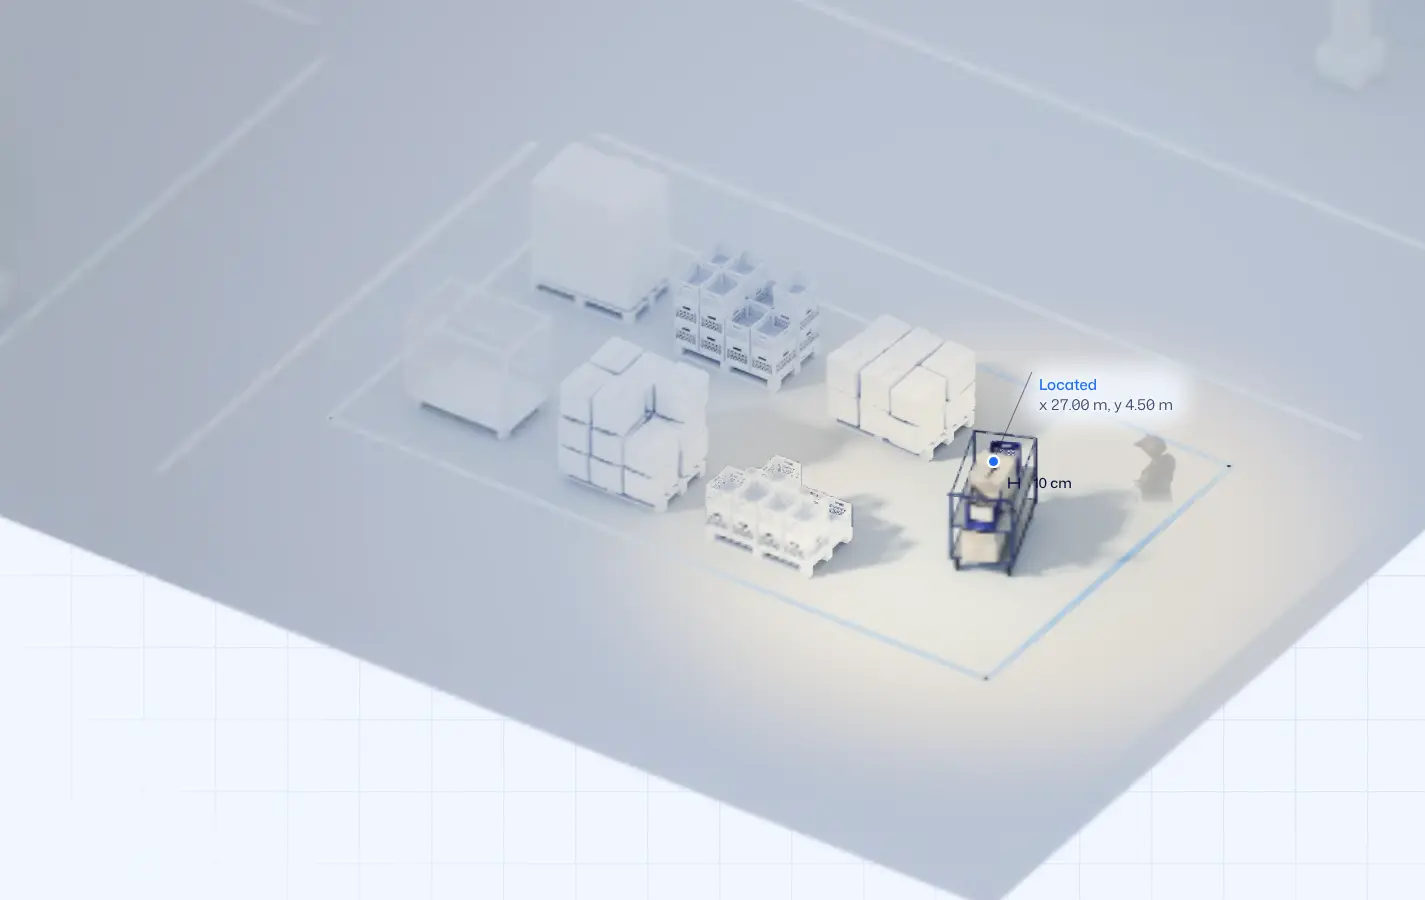
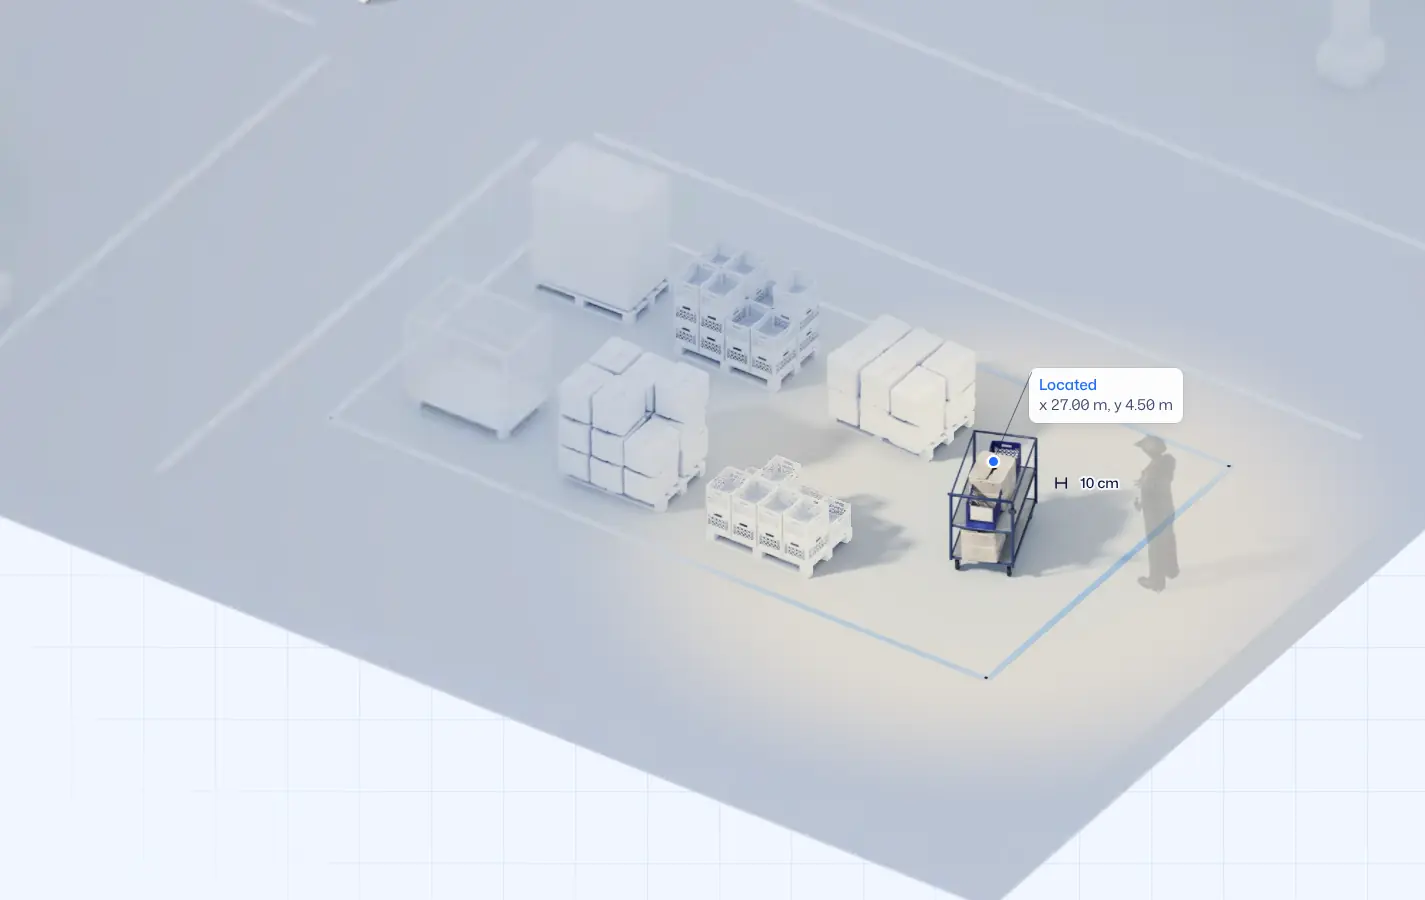
Explainer: last-version audit. Legs restored, sharp plates, clean shadows, crisp labels, supervisor at 2x detail
Claude-Session: https://claude.ai/code/session_01YEydMJrMXd25Uxd8C1TWVL

diff --git a/studio/v1/js/floor.js b/studio/v1/js/floor.js
@@ -388,9 +388,9 @@
     // the turn: the light drops and the plant goes quiet for a moment before Found
     st.dim = i === 2 ? ease(seg(u, .8, 1)) : i === 3 ? 1 - ease(seg(u, .05, .3)) : 0;
     // window light crawling across the floor while the minutes pass
-    st.shaft = i < 3 ? [lerp(-2, 26, (i + u) / 3), .16 * (1 - st.dim)] : [0, 0];
+    st.shaft = [0, 0];
     // focus: the far plant goes soft on the close shots
-    st.dof = i === 3 ? 2.6 * ease(seg(u, .1, .5)) : i === 4 ? 2.6 * (1 - seg(u, 0, .3)) : i === 5 ? 1.8 * ease(seg(u, .3, .6)) : i === 9 ? 1.1 * ease(seg(u, .3, .6)) : 0;
+    st.dof = 0;   // everything stays sharp: the plant is read in full detail
     st.fp = i <= 4 ? M.tag : i === 5 ? [M.hero[0], M.hero[1], .9] : [WALK[0][0], WALK[0][1], .9];
     st.due = i <= 2 ? (i === 0 ? seg(u, .1, .22) : 1) : i === 3 ? 1 - seg(u, 0, .25) : 0;
     st.meas = i === 2 ? ease(seg(u, .08, .42)) : 0; st.measA = i === 2 ? 1 : i === 3 ? 1 - seg(u, 0, .25) : 0;
@@ -421,9 +421,9 @@
   var tripP = el('polyline', 'l-trip'), tripC = [], tripH = el('circle', 'f-head'); tripH.setAttribute('r', 5);
   for (var tc = 1.4; tc < TTOT; tc += 1.4) { var cc = el('circle', 'f-crumb'); cc.setAttribute('r', 2.4); tripC.push({ e: cc, d: tc }); }
   var bar = el('line', 'l-ink'), barA = el('line', 'l-ink'), barB = el('line', 'l-ink'), barT = el('text');
-  barT.setAttribute('style', 'font:500 14px "AmI Text",Arial,sans-serif;fill:#0b1238'); barT.textContent = '10 cm';
+  barT.setAttribute('style', 'font:500 14px "AmI Text",Arial,sans-serif;fill:#0b1238;paint-order:stroke;stroke:#f4f7fc;stroke-width:4px;stroke-linejoin:round'); barT.textContent = '10 cm';
   [measA, measB].forEach(function (c) { c.setAttribute('r', 3.5); }); 
-  var tl = [0, 1, 2].map(function () { var d = document.createElement('div'); d.className = 'flr-dot'; d.style.cssText = 'width:auto;height:auto;margin:0;border-radius:0;background:none;box-shadow:none;font:500 14px/1 "AmI Text",Arial,sans-serif;color:#1f6bff;white-space:nowrap;text-shadow:0 0 6px #f0f6ff,0 0 12px #f0f6ff;font-variant-numeric:tabular-nums'; dotsEl.appendChild(d); return d; });
+  var tl = [0, 1, 2].map(function () { var d = document.createElement('div'); d.className = 'flr-dot'; d.style.cssText = 'width:auto;height:auto;margin:0;border-radius:0;background:none;box-shadow:none;font:500 14px/1 "AmI Text",Arial,sans-serif;color:#1f6bff;white-space:nowrap;paint-order:stroke;-webkit-text-stroke:0;text-shadow:0 0 1px #fff,0 0 2px #fff;font-variant-numeric:tabular-nums'; dotsEl.appendChild(d); return d; });
   var axG = el('g', 'l-axes'), axT = [];
   (function () { for (var k = 0; k <= 10; k++) { var l = document.createElementNS(NS, 'line'); axG.appendChild(l); var t = document.createElementNS(NS, 'text'); axG.appendChild(t); axT.push({ l: l, t: t, x: k <= 6 ? k * 5 : 30, y: k <= 6 ? 0 : (k - 6) * 5, ex: k > 6 }); } })();
   // the three layers: the floor with its tags, the anchors above, the live map on top
@@ -440,7 +440,7 @@
   // ---- WebGL
   var VS1 = 'attribute vec2 a;void main(){gl_Position=vec4(a,0.,1.);}';
   var FS1 = 'precision highp float;uniform vec2 uRes,uA,uF,uPl;uniform float uPpm;uniform sampler2D tWc,tWk,tMc,tMk,tCc,tCk,tXc,tXk,tWi,tMi,tCi,tXi,tLut;uniform vec4 uMid,uClose,uMac,uTx,uSun;uniform vec3 uW;uniform vec2 uO,uIa,uIb,uDr;uniform float uDay,uCool,uDof,uFd;uniform vec2 uSh;uniform sampler2D tD;float gF;' +
-    'vec3 grade(vec3 col,float L,float dn,vec2 s){float lum=dot(col,vec3(.2126,.7152,.0722));float q=uCool*(1.-.6*L);float wv=L*(1.-uCool);col=mix(col,col*col*(3.-2.*col),.22+.18*wv);col=mix(col,vec3(lum)*vec3(.87,.92,1.04),q*.5);col*=1.-.07*q;col+=wv*(vec3(.05,.025,-.035)*(1.-.35*uDay)*smoothstep(.3,1.,lum)+vec3(-.02,-.006,.03)*(1.-smoothstep(0.,.55,lum)));col=mix(col,mix(vec3(.8,.85,.94),vec3(.98,.95,.9),wv),smoothstep(.3,1.,dn)*(.24-.1*wv));float vg=smoothstep(.35,1.15,length((s-uA)/uRes.y));col*=1.-vg*(.1+.08*q);col.b+=vg*.02*q;return clamp(col,0.,1.);}' +
+    'vec3 grade(vec3 col,float L,float dn,vec2 s){float lum=dot(col,vec3(.2126,.7152,.0722));float q=uCool*(1.-.6*L);float wv=L*(1.-uCool);col=mix(col,col*col*(3.-2.*col),.1+.1*wv);col=mix(col,vec3(lum)*vec3(.9,.94,1.03),q*.22);col*=1.-.025*q;col+=wv*(vec3(.05,.025,-.035)*(1.-.35*uDay)*smoothstep(.3,1.,lum)+vec3(-.02,-.006,.03)*(1.-smoothstep(0.,.55,lum)));col=mix(col,mix(vec3(.8,.85,.94),vec3(.98,.95,.9),wv),smoothstep(.3,1.,dn)*(.05-.03*wv));float vg=smoothstep(.45,1.2,length((s-uA)/uRes.y));col*=1.-vg*.03;return clamp(col,0.,1.);}' +
     'float edge(vec2 u){vec2 d=min(u,1.-u);return smoothstep(0.,.07,min(d.x,d.y));}float r1(sampler2D t,vec2 u){float id=texture2D(t,u).r*255.;float v=texture2D(tLut,vec2((id+.5)/256.,.5)).r;return id<.5?max(v,gF):v;}float rv(sampler2D t,vec2 u,float d){vec2 o=vec2(d*.5,d*.5*uRes.x/uRes.y*0.+d*.5);return(r1(t,u+vec2(-o.x,-o.y))+r1(t,u+vec2(o.x,-o.y))+r1(t,u+vec2(-o.x,o.y))+r1(t,u+vec2(o.x,o.y)))*.25;}' +
     'void main(){vec2 s=vec2(gl_FragCoord.x,uRes.y-gl_FragCoord.y);vec2 m=(s-uA)/uPpm+uF;vec2 uv=m/uPl;vec2 wq=uv-uO;gF=1.-smoothstep(uSun.z-uSun.w,uSun.z,distance(vec2(dot(uIa,wq),dot(uIb,wq)),uSun.xy));' +
     'vec4 dd=texture2D(tD,uv);float dn=(dd.r*65280.+dd.g*255.)/65535.;float bb=uDof*smoothstep(.08,2.2,abs(dn-uFd)*(uDr.y-uDr.x));' +
@@ -450,11 +450,11 @@
     'if(uW.z>0.){vec2 u=(uv-uMac.xy)/uMac.zw;if(u.x>0.&&u.x<1.&&u.y>0.&&u.y<1.)c=mix(c,mix(texture2D(tXk,u,bb),texture2D(tXc,u,bb),rv(tXi,u,uTx.w)),edge(u)*uW.z);}' +
     'float L=max(gF,uDay);c.rgb*=mix(vec3(.9,.92,.955),vec3(1.),L);' +
     'vec2 wf=vec2(dot(uIa,wq),dot(uIb,wq));vec2 gp=fract(wf/vec2(7.5,6.6))-.5;float pool=smoothstep(.44,.08,length(gp*vec2(1.,1.25)));' +
-    'if(c.a>.001){vec3 col=c.rgb/c.a;col*=1.+.07*pool*L*(1.-uCool);col+=vec3(.06,.035,0.)*gF*(1.-gF)*4.*(1.-uDay);float pr=dot(wf,vec2(.8,-.6))-uSh.x;float sh=uSh.y*(exp(-pr*pr/1.3)+.7*exp(-(pr-3.4)*(pr-3.4)/1.3));col=col*(1.+sh)+sh*vec3(.035,.025,.0);c.rgb=grade(col,L,dn,s)*c.a;}gl_FragColor=c;}';
+    'if(c.a>.001){vec3 col=c.rgb/c.a;col+=vec3(.06,.035,0.)*gF*(1.-gF)*4.*(1.-uDay);float pr=dot(wf,vec2(.8,-.6))-uSh.x;float sh=uSh.y*(exp(-pr*pr/1.3)+.7*exp(-(pr-3.4)*(pr-3.4)/1.3));col=col*(1.+sh)+sh*vec3(.035,.025,.0);c.rgb=grade(col,L,dn,s)*c.a;}gl_FragColor=c;}';
   var VS2 = 'attribute vec2 a;uniform vec2 uRes,uA,uF;uniform float uPpm;uniform vec4 uR;varying vec2 vU,vM;void main(){vU=a;vM=uR.xy+a*uR.zw;vec2 s=uA+(vM-uF)*uPpm;gl_Position=vec4(s.x/uRes.x*2.-1.,1.-s.y/uRes.y*2.,0.,1.);}';
-  var FS2 = 'precision highp float;varying vec2 vU,vM;uniform sampler2D tAt,tD;uniform vec2 uCa,uCb,uPl,uDr,uRes,uA;uniform float uMix,uAl,uBy,uBd,uTan,uCool,uDay;' +
-    'vec3 grade(vec3 col,float L,float dn,vec2 s){float lum=dot(col,vec3(.2126,.7152,.0722));float q=uCool*(1.-.6*L);float wv=L*(1.-uCool);col=mix(col,col*col*(3.-2.*col),.22+.18*wv);col=mix(col,vec3(lum)*vec3(.87,.92,1.04),q*.5);col*=1.-.07*q;col+=wv*(vec3(.05,.025,-.035)*(1.-.35*uDay)*smoothstep(.3,1.,lum)+vec3(-.02,-.006,.03)*(1.-smoothstep(0.,.55,lum)));col=mix(col,mix(vec3(.8,.85,.94),vec3(.98,.95,.9),wv),smoothstep(.3,1.,dn)*(.24-.1*wv));float vg=smoothstep(.35,1.15,length((s-uA)/uRes.y));col*=1.-vg*(.1+.08*q);col.b+=vg*.02*q;return clamp(col,0.,1.);}' +
-    'void main(){vec2 q=clamp(vU,.004,.996)*.125;vec4 c=mix(texture2D(tAt,uCb+q),texture2D(tAt,uCa+q),uMix);vec4 dd=texture2D(tD,vM/uPl);float D=uDr.x+(dd.r*65280.+dd.g*255.)/65535.*(uDr.y-uDr.x);' +
+  var FS2 = 'precision highp float;varying vec2 vU,vM;uniform sampler2D tAt,tD;uniform vec2 uCa,uCb,uPl,uDr,uRes,uA,uK;uniform float uMix,uAl,uBy,uBd,uTan,uCool,uDay;' +
+    'vec3 grade(vec3 col,float L,float dn,vec2 s){float lum=dot(col,vec3(.2126,.7152,.0722));float q=uCool*(1.-.6*L);float wv=L*(1.-uCool);col=mix(col,col*col*(3.-2.*col),.1+.1*wv);col=mix(col,vec3(lum)*vec3(.9,.94,1.03),q*.22);col*=1.-.025*q;col+=wv*(vec3(.05,.025,-.035)*(1.-.35*uDay)*smoothstep(.3,1.,lum)+vec3(-.02,-.006,.03)*(1.-smoothstep(0.,.55,lum)));col=mix(col,mix(vec3(.8,.85,.94),vec3(.98,.95,.9),wv),smoothstep(.3,1.,dn)*(.05-.03*wv));float vg=smoothstep(.45,1.2,length((s-uA)/uRes.y));col*=1.-vg*.03;return clamp(col,0.,1.);}' +
+    'void main(){vec2 q=clamp(vU,.004,.996)*uK;vec4 c=mix(texture2D(tAt,uCb+q),texture2D(tAt,uCa+q),uMix);vec3 un=c.rgb/max(c.a,.001);float shd=step(.08,un.b-un.r)*step(un.r,.16)*step(c.a,.6);vec2 eu=min(vU,1.-vU);c*=mix(1.,.6*smoothstep(0.,.16,min(eu.x,eu.y)),shd);vec4 dd=texture2D(tD,vM/uPl);float D=uDr.x+(dd.r*65280.+dd.g*255.)/65535.*(uDr.y-uDr.x);' +
     'float dy=uBy-vM.y;float fd=uBd-(dy>0.?dy*uTan:-dy/uTan);if(c.a>.001)c.rgb=grade(c.rgb/c.a,max(uDay,1.-uCool),(D-uDr.x)/(uDr.y-uDr.x),vec2(gl_FragCoord.x,uRes.y-gl_FragCoord.y))*c.a;gl_FragColor=c*uAl*smoothstep(-.75,-.3,D-fd);}';
   function prog(vs, fs) {
     var pr = gl.createProgram();
@@ -588,7 +588,7 @@
     sp.forEach(function (s) {
       var b = Mxy(s.x, s.y, 0); gl.uniform4f(U.uR, b[0] - s.an[0] * s.s, b[1] - s.an[1] * s.s, s.s, s.s);
       gl.activeTexture(gl.TEXTURE0); gl.bindTexture(gl.TEXTURE_2D, (s.t || tex.sprites).t);
-      gl.uniform2f(U.uCa, s.ca[0] / 8, s.ca[1] / 8); gl.uniform2f(U.uCb, s.cb[0] / 8, s.cb[1] / 8); gl.uniform1f(U.uMix, s.mix); gl.uniform1f(U.uAl, s.al); gl.uniform1f(U.uBy, b[1]); gl.uniform1f(U.uBd, s.d);
+      var kr = s.t === tex.poses ? 4 : 8; gl.uniform2f(U.uK, .125, 1 / kr); gl.uniform2f(U.uCa, s.ca[0] / 8, s.ca[1] / kr); gl.uniform2f(U.uCb, s.cb[0] / 8, s.cb[1] / kr); gl.uniform1f(U.uMix, s.mix); gl.uniform1f(U.uAl, s.al); gl.uniform1f(U.uBy, b[1]); gl.uniform1f(U.uBd, s.d);
       gl.drawArrays(gl.TRIANGLE_STRIP, 0, 4);
     });
     // footsteps
@@ -622,7 +622,7 @@
     if (st.amber > .5 && !frame.amb) { frame.amb = true; snd.warn(); hap.tick(); } if (st.amber < .3) frame.amb = false;
     if (st.fix > .5 && !fixed) { fixed = true; snd.fix(); hap.land(); } if (i < 5 || (i === 5 && st.fix < .3)) fixed = false;
     // the 10 cm bar, true to scale, beside the located point
-    var hp = scr(M.hero[0], M.hero[1], 1.02), bw = .1 * cam.ppm, bx = hp[0] + 16, by = hp[1] + 22;
+    var hp = scr(M.hero[0], M.hero[1], 1.02), bw = .1 * cam.ppm, bx = hp[0] + Math.max(16, .62 * cam.ppm), by = hp[1] + 22;
     [bar, barA, barB, barT].forEach(function (e) { show(e, st.fix); });
     if (st.fix > 0) { bar.setAttribute('x1', bx); bar.setAttribute('x2', bx + bw); bar.setAttribute('y1', by); bar.setAttribute('y2', by); barA.setAttribute('x1', bx); barA.setAttribute('x2', bx); barA.setAttribute('y1', by - 5); barA.setAttribute('y2', by + 5); barB.setAttribute('x1', bx + bw); barB.setAttribute('x2', bx + bw); barB.setAttribute('y1', by - 5); barB.setAttribute('y2', by + 5); barT.setAttribute('x', bx + bw + 14); barT.setAttribute('y', by + 5); }
     // --- dots
@@ -657,6 +657,7 @@
       var p0 = scr(t.x, t.y, -.5), p1 = t.ex ? scr(t.x + .45, t.y, -.5) : scr(t.x, t.y - .45, -.5), p2 = t.ex ? scr(t.x + 1.5, t.y, -.5) : scr(t.x, t.y - 1.5, -.5);
       t.l.setAttribute('x1', p0[0]); t.l.setAttribute('y1', p0[1]); t.l.setAttribute('x2', p1[0]); t.l.setAttribute('y2', p1[1]); t.t.setAttribute('x', p2[0]); t.t.setAttribute('y', p2[1] + 4);
       if (!t.t.textContent) t.t.textContent = (t.ex ? t.y : t.x) + (t.x === 30 && t.y === 0 || t.y === 20 ? ' m' : '');
+      var vw = innerWidth, ok = p2[0] > vw * .42 && p2[0] < vw - 44 ? '' : '0'; if (t.o !== ok) { t.o = ok; t.l.style.opacity = t.t.style.opacity = ok; }
     });
     // --- the layers
     var la = Math.max(st.l2, st.l3); show(layG, la > 0 ? 1 : 0);

diff --git a/studio/v1/css/floor.css b/studio/v1/css/floor.css
@@ -40,7 +40,7 @@
 .flr-on.flr-live .flr-gl{opacity:1}
 /* the words stand on the page's own ground: the picture thins out toward them */
 .flr-on .flr-fog{display:block;position:absolute;inset:0;z-index:2;pointer-events:none;
-  background:linear-gradient(90deg,var(--flr-ground) 0,var(--flr-ground) 30%,rgba(240,246,255,.8) 37%,rgba(240,246,255,0) 47%)}
+  background:linear-gradient(90deg,var(--flr-ground) 0,var(--flr-ground) 25%,rgba(240,246,255,.72) 32%,rgba(240,246,255,.22) 38%,rgba(240,246,255,0) 42%)}
 .flr-on .flr-fog::after{content:"";position:absolute;inset:0;opacity:var(--end,0);background:linear-gradient(90deg,var(--flr-ground) 0,rgba(240,246,255,.96) 36%,rgba(240,246,255,.5) 52%,rgba(240,246,255,0) 66%)}
 .flr-on .flr-ov{display:block;position:absolute;inset:0;width:100%;height:100%;z-index:1;pointer-events:none;overflow:visible}
 .flr-on .flr-dots{display:block;position:absolute;inset:0;z-index:1;pointer-events:none}
@@ -84,7 +84,7 @@
 .flr-on .w.k+.w.k::after{left:-.3em}
 .flr-on .w.k-amber::after{background:var(--flr-amber)}
 .flr-on .w.k-ink::after{background:var(--flr-ink)}
-.flr-on .flr-lead{display:block;position:absolute;inset:0;width:100%;height:100%;z-index:5;pointer-events:none;overflow:visible}
+.flr-on .flr-lead{display:block;position:absolute;inset:0;width:100%;height:100%;z-index:3;pointer-events:none;overflow:visible}
 .flr-lead path{fill:none;stroke:var(--flr-blue);stroke-width:1;stroke-linejoin:round}
 .flr-lead circle{fill:var(--flr-ground);stroke:var(--flr-blue);stroke-width:1.5}
 .flr-lead path.k-amber{stroke:#c98200}.flr-lead circle.k-amber{stroke:#c98200}
@@ -108,12 +108,12 @@
 .flr-ov .l-axes line{stroke:var(--flr-soft);stroke-width:1;opacity:.7}
 .flr-ov .l-axes text{font:400 11.5px "AmI Text",Arial,sans-serif;fill:var(--flr-soft);text-anchor:middle;font-variant-numeric:tabular-nums}
 .flr-on .flr-count{opacity:0}
-/* notes: a word or two fixed to a thing in the picture. No box, no card: a dot, a hair, the words. */
+/* notes: a word or two fixed to a thing in the picture: a dot, a hair, the words on a crisp paper slip (no blur, no glow). */
 .flr-on .flr-n{display:block;position:absolute;inset:0;z-index:4;margin:0;padding:0}
 .flr-on .flr-n li{position:absolute;left:0;top:0;width:0;height:0;margin:0;opacity:0;transition:opacity .35s;will-change:transform,opacity}
 .flr-on .flr-n li.in{opacity:1;transition:opacity .6s .15s}
-.flr-on .flr-n li>span{position:absolute;white-space:nowrap;text-shadow:0 0 6px var(--flr-ground),0 0 14px var(--flr-ground),0 0 2px #fff}
-.flr-on .flr-n li>span::before{content:"";position:absolute;z-index:-1;inset:-10px -16px;border-radius:26px;background:rgba(240,246,255,.82);filter:blur(10px)}
+.flr-on .flr-n li>span{position:absolute;white-space:nowrap;}
+.flr-on .flr-n li>span::before{content:"";position:absolute;z-index:-1;inset:-7px -10px;border-radius:8px;background:rgba(255,255,255,.94);box-shadow:0 0 0 1px rgba(15,27,45,.07),0 6px 18px -8px rgba(15,27,45,.18)}
 .flr-hair{position:absolute;left:0;top:0;height:1px;background:var(--flr-ink);opacity:.5;transform-origin:0 50%}
 .flr-pin{position:absolute;left:-4.5px;top:-4.5px;width:9px;height:9px;border-radius:50%;background:var(--flr-blue);box-shadow:0 0 0 2.5px rgba(255,255,255,.95)}
 .flr-amber .flr-pin,.flr-n li.flr-due .flr-pin{background:var(--flr-amber)}
@@ -168,14 +168,14 @@
 
 /* the turn: the picture side goes dark for a breath before Found */
 .flr-dim{display:none}
-.flr-on .flr-dim{display:block;position:absolute;inset:0;z-index:3;pointer-events:none;opacity:var(--dim,0);background:linear-gradient(90deg,rgba(6,10,30,0) 27%,rgba(6,10,30,.5) 36%,rgba(6,10,30,.76) 48%)}
+.flr-on .flr-dim{display:block;position:absolute;inset:0;z-index:3;pointer-events:none;opacity:var(--dim,0);background:linear-gradient(90deg,rgba(6,10,30,0) 27%,rgba(6,10,30,.26) 36%,rgba(6,10,30,.38) 48%)}
 /* chapter cards: the title of each chapter, once, like a film */
 .flr-card{display:none}
 .flr-on .flr-card{display:block;position:absolute;left:68.5%;top:50%;z-index:3;pointer-events:none;opacity:0;transform:translate(-50%,-50%);font:600 clamp(56px,8.4vw,132px)/1 "AmI Display","AmI Text",Arial,sans-serif;letter-spacing:-.045em;color:var(--flr-ink);white-space:nowrap}
 .flr-on .flr-card.c1{color:#f4f7ff}
 .flr-on .flr-card.go{animation:flr-card 1.7s cubic-bezier(.2,.7,.2,1) both}
 @keyframes flr-card{0%{opacity:0;transform:translate(-50%,-46%)}22%{opacity:1;transform:translate(-50%,-50%)}62%{opacity:1}100%{opacity:0;transform:translate(-50%,-52%)}}
-@media (max-aspect-ratio:4/5){.flr-on .flr-card{left:50%;top:64%}.flr-on .flr-dim{background:linear-gradient(180deg,rgba(6,10,30,0) 30%,rgba(6,10,30,.74) 54%)}}
+@media (max-aspect-ratio:4/5){.flr-on .flr-card{left:50%;top:64%}.flr-on .flr-dim{background:linear-gradient(180deg,rgba(6,10,30,0) 30%,rgba(6,10,30,.36) 54%)}}
 @media (prefers-reduced-motion:reduce){.flr-on .flr-card.go{animation:none}}
 .flr-shot .flr-card{display:none!important}
 

diff --git a/extras/explainer-floor/blender/pack3.py b/extras/explainer-floor/blender/pack3.py
@@ -7,14 +7,23 @@ B = os.environ.get('BAY', '/home/user/x3d/out/bay4'); OUT = sys.argv[1]
 man = json.load(open(f'{OUT}/floor.json'))
 J = {n: json.load(open(f'{B}/{n}_col.json')) for n in ('wide', 'mid', 'close', 'macro')}
 w = J['wide']; P = w['pts']
-man.update(aspect=w['w'] / w['h'], scale=w['scale'], o=P['o'], x=[P['x'][i] - P['o'][i] for i in (0, 1)], y=[P['y'][i] - P['o'][i] for i in (0, 1)], z=[P['z'][i] - P['o'][i] for i in (0, 1)])
+man.update(cam=w['cam'], view=w['view'], aspect=w['w'] / w['h'], scale=w['scale'], o=P['o'], x=[P['x'][i] - P['o'][i] for i in (0, 1)], y=[P['y'][i] - P['o'][i] for i in (0, 1)], z=[P['z'][i] - P['o'][i] for i in (0, 1)])
 for n in ('mid', 'close', 'macro'):
     q = J[n]['pts']; a, b = 'o', 'a0'
     rs = [(P[b][i] - P[a][i]) / (q[b][i] - q[a][i]) for i in (0, 1)]; r0 = [P[a][i] - q[a][i] * rs[i] for i in (0, 1)]
     man[n] = [round(v, 6) for v in (*r0, *rs)]
 LUTC = np.interp(np.arange(256) / 255., [0, .35, .745, 1], [0, .35, .8, 1])
+from scipy import ndimage
+def heal(a):
+    # Black opaque slivers where rack tops meet the back wall (a render artefact): fill each from its nearest real pixel.
+    m = (a[..., :3].astype(int).sum(-1) < 12) & (a[..., 3] > 250); lab, n = ndimage.label(m)
+    if n: sz = ndimage.sum(m, lab, range(1, n + 1)); m = np.isin(lab, 1 + np.nonzero(sz > 20)[0])
+    dk = a[..., :3].astype(int).sum(-1) < 90
+    for _ in range(4): m = m | (ndimage.binary_dilation(m) & dk)
+    m = ndimage.binary_dilation(m, iterations=2) & (a[..., 3] > 250)
+    _, (iy, ix) = ndimage.distance_transform_edt(m, return_indices=True); a[m] = a[iy[m], ix[m]]; return a
 def lift(im):
-    a = np.asarray(im).copy(); a[..., :3] = np.round(LUTC[a[..., :3]] * 255).astype(np.uint8); return Image.fromarray(a, 'RGBA')
+    a = heal(np.asarray(im).copy()); a[..., :3] = np.round(LUTC[a[..., :3]] * 255).astype(np.uint8); return Image.fromarray(a, 'RGBA')
 SZ = dict(L=4405, P=2506)
 for lay, wd in SZ.items():
     for st in ('col', 'clay'):

diff --git a/extras/explainer-floor/blender/packposes.py b/extras/explainer-floor/blender/packposes.py
@@ -1,11 +1,13 @@
-# Pack the supervisor's held poses into one sheet, laid out like sprites.webp (8 x 8 cells): column = pose, row = heading.
+# Pack the supervisor's held poses into one sheet of 8 x 4 cells (column = pose, row = heading), rendered at 512 px a cell (sprites3.py with CELL=512)
+# so the close shots show the person at full sharpness.
 # usage: python packposes.py <site assets dir>
 import sys, numpy as np
 from PIL import Image
-S = '/home/user/x3d/out/spr3'; OUT = sys.argv[1]; C = 384
+import os
+S = os.environ.get('SPR', '/home/user/x3d/out/spr3x'); OUT = sys.argv[1]; C = 512
 LUTC = np.interp(np.arange(256) / 255., [0, .35, .745, 1], [0, .35, .8, 1])
-for lay, c in (('L', 384), ('P', 192)):
-    sh = Image.new('RGBA', (8 * c, 8 * c))
+for lay, c in (('L', 512), ('P', 256)):
+    sh = Image.new('RGBA', (8 * c, 4 * c))
     for h in range(4):
         for p in range(7):
             a = np.asarray(Image.open(f'{S}/pose_{h}_{p}.png').convert('RGBA')).astype(np.float32)
@@ -14,5 +16,5 @@ for lay, c in (('L', 384), ('P', 192)):
             im = Image.fromarray(a.astype(np.uint8))
             if c != C: im = im.resize((c, c), Image.LANCZOS)
             sh.paste(im, (p * c, h * c))
-    sh.save(f'{OUT}/{lay}/poses.webp', 'WEBP', quality=78, alpha_quality=80, method=6)
+    sh.save(f'{OUT}/{lay}/poses.webp', 'WEBP', quality=90, alpha_quality=90, method=6)
 print('ok')

diff --git a/extras/explainer-floor/blender/sprites3.py b/extras/explainer-floor/blender/sprites3.py
@@ -8,7 +8,7 @@ OUT = os.path.abspath(sys.argv[-2] if sys.argv[-1] == 'test' else sys.argv[-1]);
 P.reset(); sc = P.sc
 P.worn('amrshell', (.022, .032, .1, 1), (.28, .5), 0., 5); P.worn('body', (.013, .147, 1., 1), (.25, .5), 0., 4); P.worn('powder', (.022, .032, .1, 1), (.3, .6), .2, 7)
 mm = P.M()
-AZ, EL = rad(124), rad(36); CELL = 384
+AZ, EL = rad(124), rad(36); CELL = int(os.environ.get("CELL", 384))
 fl = P.box('catch', (40, 40, .2), (0, 0, -.1), P.mat('catch', (.55, .6, .68, 1), .5), 0); fl.is_shadow_catcher = True
 w = bpy.data.worlds.new('w'); sc.world = w; w.use_nodes = True; bg = w.node_tree.nodes['Background']; bg.inputs['Color'].default_value = (.86, .91, 1.0, 1); bg.inputs['Strength'].default_value = .85
 bpy.ops.object.light_add(type='SUN'); sun = bpy.context.object; sun.data.energy = 5.6; sun.data.angle = rad(6); sun.data.color = (1, .97, .92); sun.rotation_euler = (rad(54), 0, rad(-38))

diff --git a/extras/explainer-floor/README.md b/extras/explainer-floor/README.md
@@ -47,3 +47,11 @@ The section closes on the three layers: tags on the floor, anchors above, AmIHub
 - The truck reads from above: a 40 ft container (corrugation across its length, weathered roof) on a skeletal trailer, coupled to a cab-over tractor in AmIMotion's ink, standing whole on its own apron (`blender/truck2.py`). The wide plates are framed larger (`SCALE=52`, 4405 px) at the same pixels per metre, so nothing is cut at the edge (`renderall4.sh`, then `pack3.py` repacks only the wide plates and updates `floor.json`).
 - Controlled scroll (`floor.js`, "controlled scroll"): inside the story one wheel turn, swipe or key glides to the next resting point, where that sentence's words, picture and sound have all arrived. The page is held while the story runs, so a long flick cannot carry past a sentence. Before the first and after the last resting point the page scrolls as usual. Off for reduced motion.
 - Words, picture, sound and the phone's vibration all follow the one scroll value.
+
+## Round 6 (last-version audit)
+- Supervisor legs restored: floor.json cam/view now match the reframed wide camera (pack3.py writes them), so depth occlusion no longer clips the sprite.
+- Removed depth blur, light shafts and floor pools; grade and the left dim softened so every detail reads sharp.
+- AMR and supervisor caught shadows feather out at the sprite cell edge (FS2), so no hard-edged smudges.
+- pack3.py heals the black slivers where rack tops meet the back wall.
+- Supervisor poses re-rendered at 512 px a cell (`CELL=512 venv/bin/python sprites3.py out/spr3x`, then packposes.py): an 8 x 4 sheet, read with the uK uniform.
+- Notes sit on a crisp paper slip (no blur halo) above the lead lines; the 10 cm bar sits clear of the trolley; axis numbers hide under the copy and at the edge; the text fog is narrower so the truck shows.
